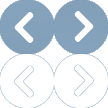
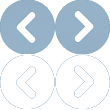
redo graphics for next and prev

diff --git a/static/css/style_new.css b/static/css/style_new.css
@@ -61,16 +61,16 @@ Home Page Home Page Home Page Home Page Home Page Home Page Home Page Home Page 
 }
 #home_slide_nav_prev, #home_slide_nav_next {
     display: block;
-    height: 54px;
-    width: 54px;
+    height: 55px;
+    width: 55px;
     color: transparent;
     background: transparent url('../images/theme_new/home_nextprev.png') 0px 0px no-repeat;
     margin-top: 100px;
     margin-left: 5px;
 }
-#home_slide_nav_prev:hover { background-position: 0px -54px; }
-#home_slide_nav_next { background-position: -54px 0px; }
-#home_slide_nav_next:hover { background-position: -54px -54px; }
+#home_slide_nav_prev:hover { background-position: 0px -55px; }
+#home_slide_nav_next { background-position: -55px 0px; }
+#home_slide_nav_next:hover { background-position: -55px -55px; }
 #home_slide_1 .home_slide_left{ width: 440px;}
 #home_slide_1 .home_slide_right{ width: 330px;}
 #home_slide_2 .home_slide_left{ width: 350px;}
